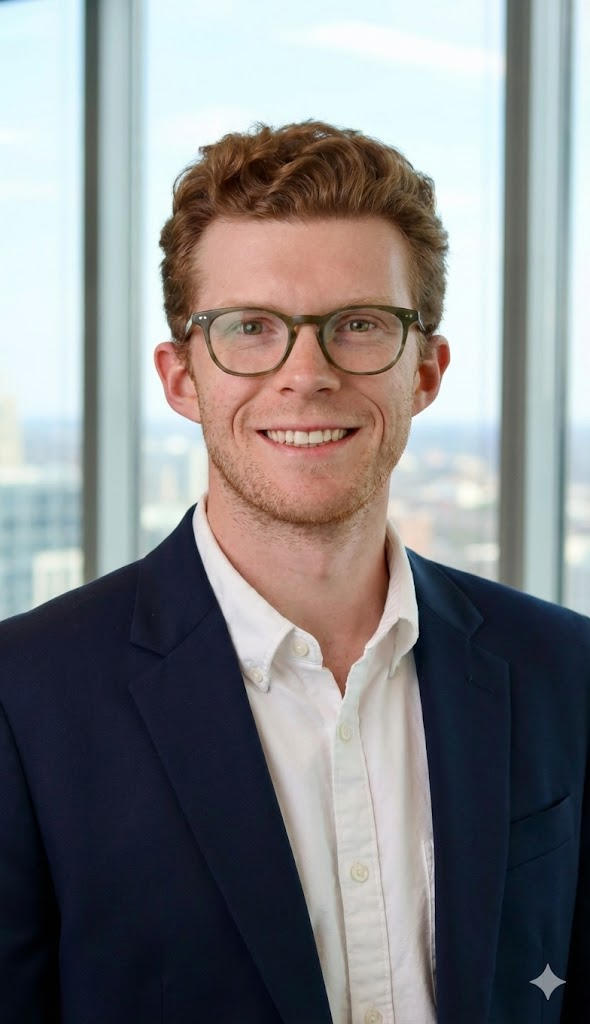
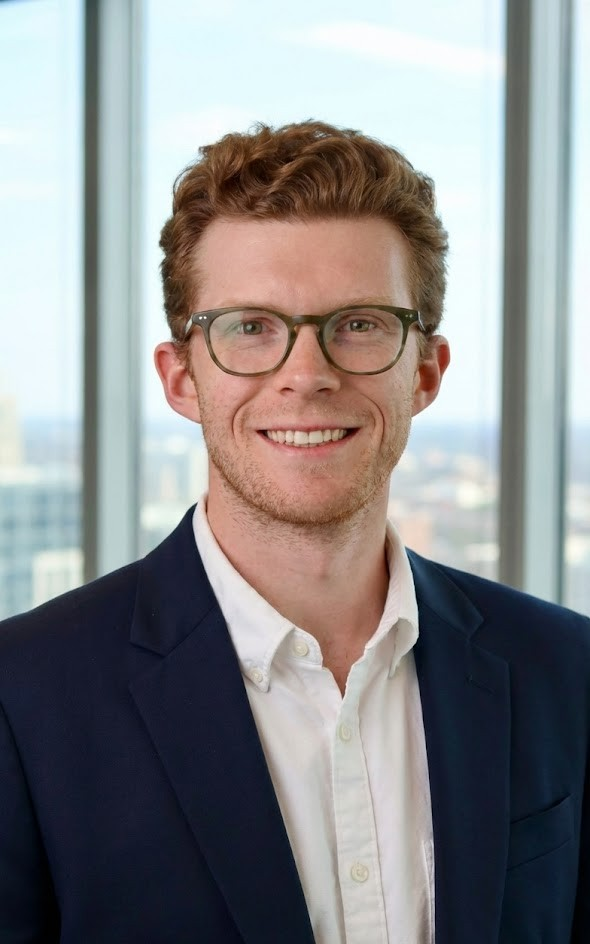
updates after EIN and branding

Changed region(s): [[0.0, 0.0922, 1.0, 1.0], [0.8847, 0.768, 1.0, 1.0], [0.0305, 0.7373, 0.122, 0.9523]]

diff --git a/_includes/head/custom.html b/_includes/head/custom.html
@@ -1,0 +1,122 @@
+<style>
+  /* === Changepoint Analytics Brand Colors === */
+
+  /* Logo mark in masthead */
+  .site-logo img {
+    max-height: 36px;
+    width: auto;
+  }
+
+  /* Site title & subtitle */
+  .site-title,
+  .site-title:visited {
+    color: #1B2A4A;
+    font-weight: 500;
+  }
+  .site-title:hover { color: #2A5FA5; }
+  .site-subtitle { color: #6B7A99; }
+
+  /* Masthead nav links */
+  .masthead__menu-item a {
+    color: #1B2A4A;
+  }
+  .masthead__menu-item a:hover { color: #2A5FA5; }
+
+  /* Content links */
+  a,
+  a:visited {
+    color: #2A5FA5;
+  }
+  a:hover { color: #4A8CC8; }
+
+  /* Headings */
+  h1, h2, h3, h4,
+  .page__title,
+  .archive__item-title a {
+    color: #1B2A4A;
+  }
+
+  /* Blockquote accent */
+  blockquote {
+    border-left-color: #2A5FA5;
+    color: #6B7A99;
+  }
+
+  /* Primary buttons */
+  .btn--primary {
+    background-color: #2A5FA5;
+    border-color: #2A5FA5;
+    color: #fff;
+  }
+  .btn--primary:hover,
+  .btn--primary:focus {
+    background-color: #4A8CC8;
+    border-color: #4A8CC8;
+    color: #fff;
+  }
+
+  /* Inverse button border */
+  .btn--inverse {
+    color: #2A5FA5;
+    border-color: #2A5FA5;
+  }
+  .btn--inverse:hover,
+  .btn--inverse:focus {
+    background-color: #2A5FA5;
+    border-color: #2A5FA5;
+    color: #fff;
+  }
+
+  /* Footer */
+  .page__footer {
+    background-color: #1B2A4A;
+  }
+  .page__footer a { color: #4A8CC8; }
+  .page__footer a:hover { color: #fff; }
+
+  /* Sidebar author name */
+  .author__name a,
+  .author__name a:visited {
+    color: #1B2A4A;
+  }
+
+  /* Sidebar social links */
+  .author__urls a,
+  .author__urls a:visited {
+    color: #2A5FA5;
+  }
+  .author__urls a:hover { color: #4A8CC8; }
+
+  /* Grepper / tag chips */
+  .page__taxonomy-item a {
+    color: #2A5FA5;
+    border-color: #2A5FA5;
+  }
+
+  /* Horizontal rules */
+  hr { border-color: rgba(42, 95, 165, 0.15); }
+
+  /* Brand hero banner */
+  .brand-hero {
+    background: #0F1A2E;
+    border-radius: 10px;
+    padding: 40px 32px 28px;
+    margin-bottom: 2.5em;
+    text-align: center;
+  }
+  .brand-hero svg {
+    max-width: 560px;
+    width: 100%;
+    height: auto;
+    display: block;
+    margin: 0 auto;
+  }
+  .brand-tagline {
+    color: #7AAAD4;
+    font-size: 0.95em;
+    letter-spacing: 0.06em;
+    text-transform: uppercase;
+    margin-top: 12px;
+    margin-bottom: 0;
+  }
+</style>

diff --git a/index.md b/index.md
@@ -1,62 +1,71 @@
 ---
 layout: single
-author_profile: true
-title: "Data Science for Small Businesses"
-header:
-  overlay_color: "#1a1a2e"
-  overlay_filter: 0.5
-  tagline: "Turn your data into decisions."
-excerpt: "Freelance data science and research consulting based in Birmingham, AL — helping small businesses and nonprofits use their data to work smarter."
+author_profile: false
+excerpt: "Data science and analytics consulting for small businesses — forecasting, dashboards, modeling, and research support."
 ---
 
-## Hey, I'm John.
+<div class="brand-hero">
+  <svg viewBox="0 0 700 110" xmlns="http://www.w3.org/2000/svg" aria-label="Changepoint Analytics">
+    <polygon points="20,104 72,56 106,72 134,46 162,72 188,104" fill="#1B3560" opacity="0.75"/>
+    <polygon points="20,104 55,76 80,88 105,62 128,104" fill="#1E2E50" opacity="0.9"/>
+    <polygon points="118,104 155,66 178,78 200,52 222,104" fill="#1E4070" opacity="0.95"/>
+    <polygon points="222,104 222,42 238,28 258,38 278,104" fill="#1A5240" opacity="0.95"/>
+    <polyline points="118,104 155,66 178,78 200,52 222,104"
+              fill="none" stroke="#4A8CC8" stroke-width="1.6" stroke-linejoin="round" stroke-linecap="round"/>
+    <polyline points="222,42 238,28 258,38 278,104"
+              fill="none" stroke="#3DB87A" stroke-width="1.6" stroke-linejoin="round" stroke-linecap="round"/>
+    <polygon points="215,50 222,26 229,50" fill="#8AAED4" opacity="0.5"/>
+    <circle cx="222" cy="42" r="9" fill="#E06B2E" opacity="0.22"/>
+    <circle cx="222" cy="42" r="5" fill="#E06B2E"/>
+    <circle cx="222" cy="42" r="3" fill="#F5A070"/>
+    <line x1="20" y1="104" x2="282" y2="104" stroke="#2A5FA5" stroke-width="0.5" opacity="0.3"/>
+    <text style="font-family:-apple-system,'Segoe UI',Helvetica,Arial,sans-serif;font-size:28px;font-weight:500;fill:#D8E4F4;letter-spacing:-0.01em;" x="308" y="62">Changepoint</text>
+    <text style="font-family:-apple-system,'Segoe UI',Helvetica,Arial,sans-serif;font-size:10px;font-weight:400;fill:#7AAAD4;letter-spacing:0.14em;" x="309" y="82">ANALYTICS</text>
+  </svg>
+  <p class="brand-tagline">Turn your data into decisions.</p>
+</div>
 
-I'm a data scientist with a background in **healthcare analytics** and **financial services**, and I offer services to businesses, nonprofits, and institutions to help them get real value from their data.
+## What We Do
 
-You probably have more data than you realize — in your spreadsheets, your CRM, your point-of-sale system, your website. I help you make sense of it.
+Changepoint Analytics provides data science and research consulting to small businesses, nonprofits, and healthcare organizations. We help clients extract real signal from the data they already have — and build tools they'll actually use.
 
 ---
 
-## What I Can Do For You
+## Services
 
-**Forecasting & Predictive Modeling**  
+**Data Cleaning & Automation**
+Stop doing repetitive data work by hand. We build pipelines that extract, clean, and transform data so your team can focus on decision-making.
+
+**Dashboard Building**
+Replace static spreadsheets with live, interactive dashboards built for the decisions you actually need to make.
+
+**Forecasting & Predictive Modeling**
 Anticipate demand, revenue, or customer behavior so you can plan ahead instead of react.
 
-**Dashboards & Reporting**  
-Replace your static spreadsheets with live, interactive dashboards you can actually use day-to-day.
+**Experimentation (A/B Testing)**
+Design and analyze experiments to validate business decisions with statistical rigor. Move fast with confidence.
 
-**Data Cleaning & Pipeline Automation**  
-Stop doing repetitive data work by hand. I'll automate the grunt work so your team can focus on what matters.
+**Customer Segmentation**
+Identify high-value customer groups, at-risk segments, and untapped market opportunities using clustering and cohort analysis.
 
-**Ad-hoc Analysis**  
-Have a specific question you need answered with data? I can dig in and give you a clear, actionable answer.
+**MLOps & Model Deployment**
+Build and maintain production machine learning systems that stay accurate over time and integrate seamlessly with your operations.
 
-**Healthcare & Claims Analytics** *(specialty)*  
-Deep experience with Medicare quality improvement, EHR data, prior authorization data, and clinical program ROI analysis.
-
-**Research Consulting**  
-Literature reviews, study design, survey design, and grant or manuscript support for researchers and small organizations.
+**Healthcare & Claims Analytics** *(specialty)*
+Deep experience with Medicare quality improvement, EHR data, prior authorization, and clinical program ROI.
 
 ---
 
-## Why Work With Me?
+## Why Changepoint Analytics?
 
-- **Real-world experience** — I've built production models at a health tech company, validated risk models at a major regional bank, and contributed to published public health research.
-- **I communicate clearly** — I translate complex findings into plain language for non-technical stakeholders. No jargon, no black boxes.
-- **Small business focus** — I'm not pitching you a six-figure enterprise contract. I offer right-sized engagements that fit your budget and your actual needs.
-- **MS in Biostatistics, BS in Mathematics** — UAB & Birmingham-Southern College.
-
----
-
-## Background & partnerships
-
-I've worked as a data scientist at a **Fortune 500 financial institution** and at **two growing national healthcare analytics companies**, and I've contributed to **leading research journal publications**. I've partnered with local clinics, labs, nonprofits, and small business leaders.
+- **Real-world experience** — Production models at a health tech company, risk model validation at a major regional bank, and contributions to published public health research.
+- **Clear communication** — Findings translated into plain language for non-technical stakeholders. No jargon, no black boxes.
+- **Right-sized engagements** — Not pitching six-figure enterprise contracts. Scoped to fit small business budgets and real needs.
 
 ---
 
 ## Let's Talk
 
-The best first step is a free 30-minute call. We'll talk about your data, your questions, and whether I'm a good fit to help.
+The best first step is a free 30-minute call. We'll discuss your data, your questions, and whether we're a good fit.
 
-[Book a free 30-minute call](/contact/){: .btn .btn--primary .btn--large}
-[View My Portfolio](/portfolio/){: .btn .btn--inverse .btn--large}
+[Get in Touch](/contact/){: .btn .btn--primary .btn--large}

diff --git a/_pages/about.md b/_pages/about.md
@@ -1,17 +1,17 @@
 ---
 permalink: /about/
 title: "About You"
-excerpt: "Is this you? Data scientist John DeLay helps small businesses and researchers turn data into clear, actionable decisions."
+excerpt: "Is this you? Changepoint Analytics helps small businesses and researchers turn data into clear, actionable decisions."
 layout: single
 author_profile: true
 ---
 
 <style>
 .identity-block {
-  border-left: 4px solid #1a1a2e;
+  border-left: 4px solid #2A5FA5;
   padding: 0.75em 1.25em;
   margin: 1.5em 0;
-  background: #f8f8f8;
+  background: #F5F6F8;
   font-size: 1.05em;
   font-style: italic;
 }
@@ -82,7 +82,7 @@ I'm particularly useful when:
 
 ## About John
 
-I'm John DeLay — a data scientist based in Birmingham, AL. I've built production models at a health tech company, validated risk models at a major regional bank, and contributed to published public health research. I translate complex findings into plain language. No jargon, no black boxes.
+I'm John DeLay, founder of **Changepoint Analytics** — a data science consultancy based in Birmingham, AL. I've built production models at a health tech company, validated risk models at a major regional bank, and contributed to published public health research. I translate complex findings into plain language. No jargon, no black boxes.
 
 **Education:** MS in Biostatistics (UAB), BS in Mathematics (Birmingham-Southern College).
 

diff --git a/_pages/contact.md b/_pages/contact.md
@@ -10,6 +10,4 @@ The best first step is a **free 30-minute call**. We'll discuss your goals, your
 
 **Birmingham, AL** — I work with clients locally and remotely.
 
-[Book a free 30-minute call](https://calendly.com/jmacdelay){: .btn .btn--primary .btn--large}
-
-You can also reach me at **macdelay+llc@gmail.com** or [LinkedIn](https://www.linkedin.com/in/john-delay-7741b7124).
+You can reach me at **john@changepointdata.com** or [LinkedIn](https://www.linkedin.com/in/john-delay-7741b7124).

diff --git a/README.md b/README.md
@@ -1,4 +1,4 @@
-# John DeLay — Consulting site
+# Changepoint Analytics — Consulting site
 
 Personal site for small business data science and research consulting. Built with Jekyll and the [Minimal Mistakes](https://github.com/mmistakes/minimal-mistakes) theme, deployed on GitHub Pages.
 
